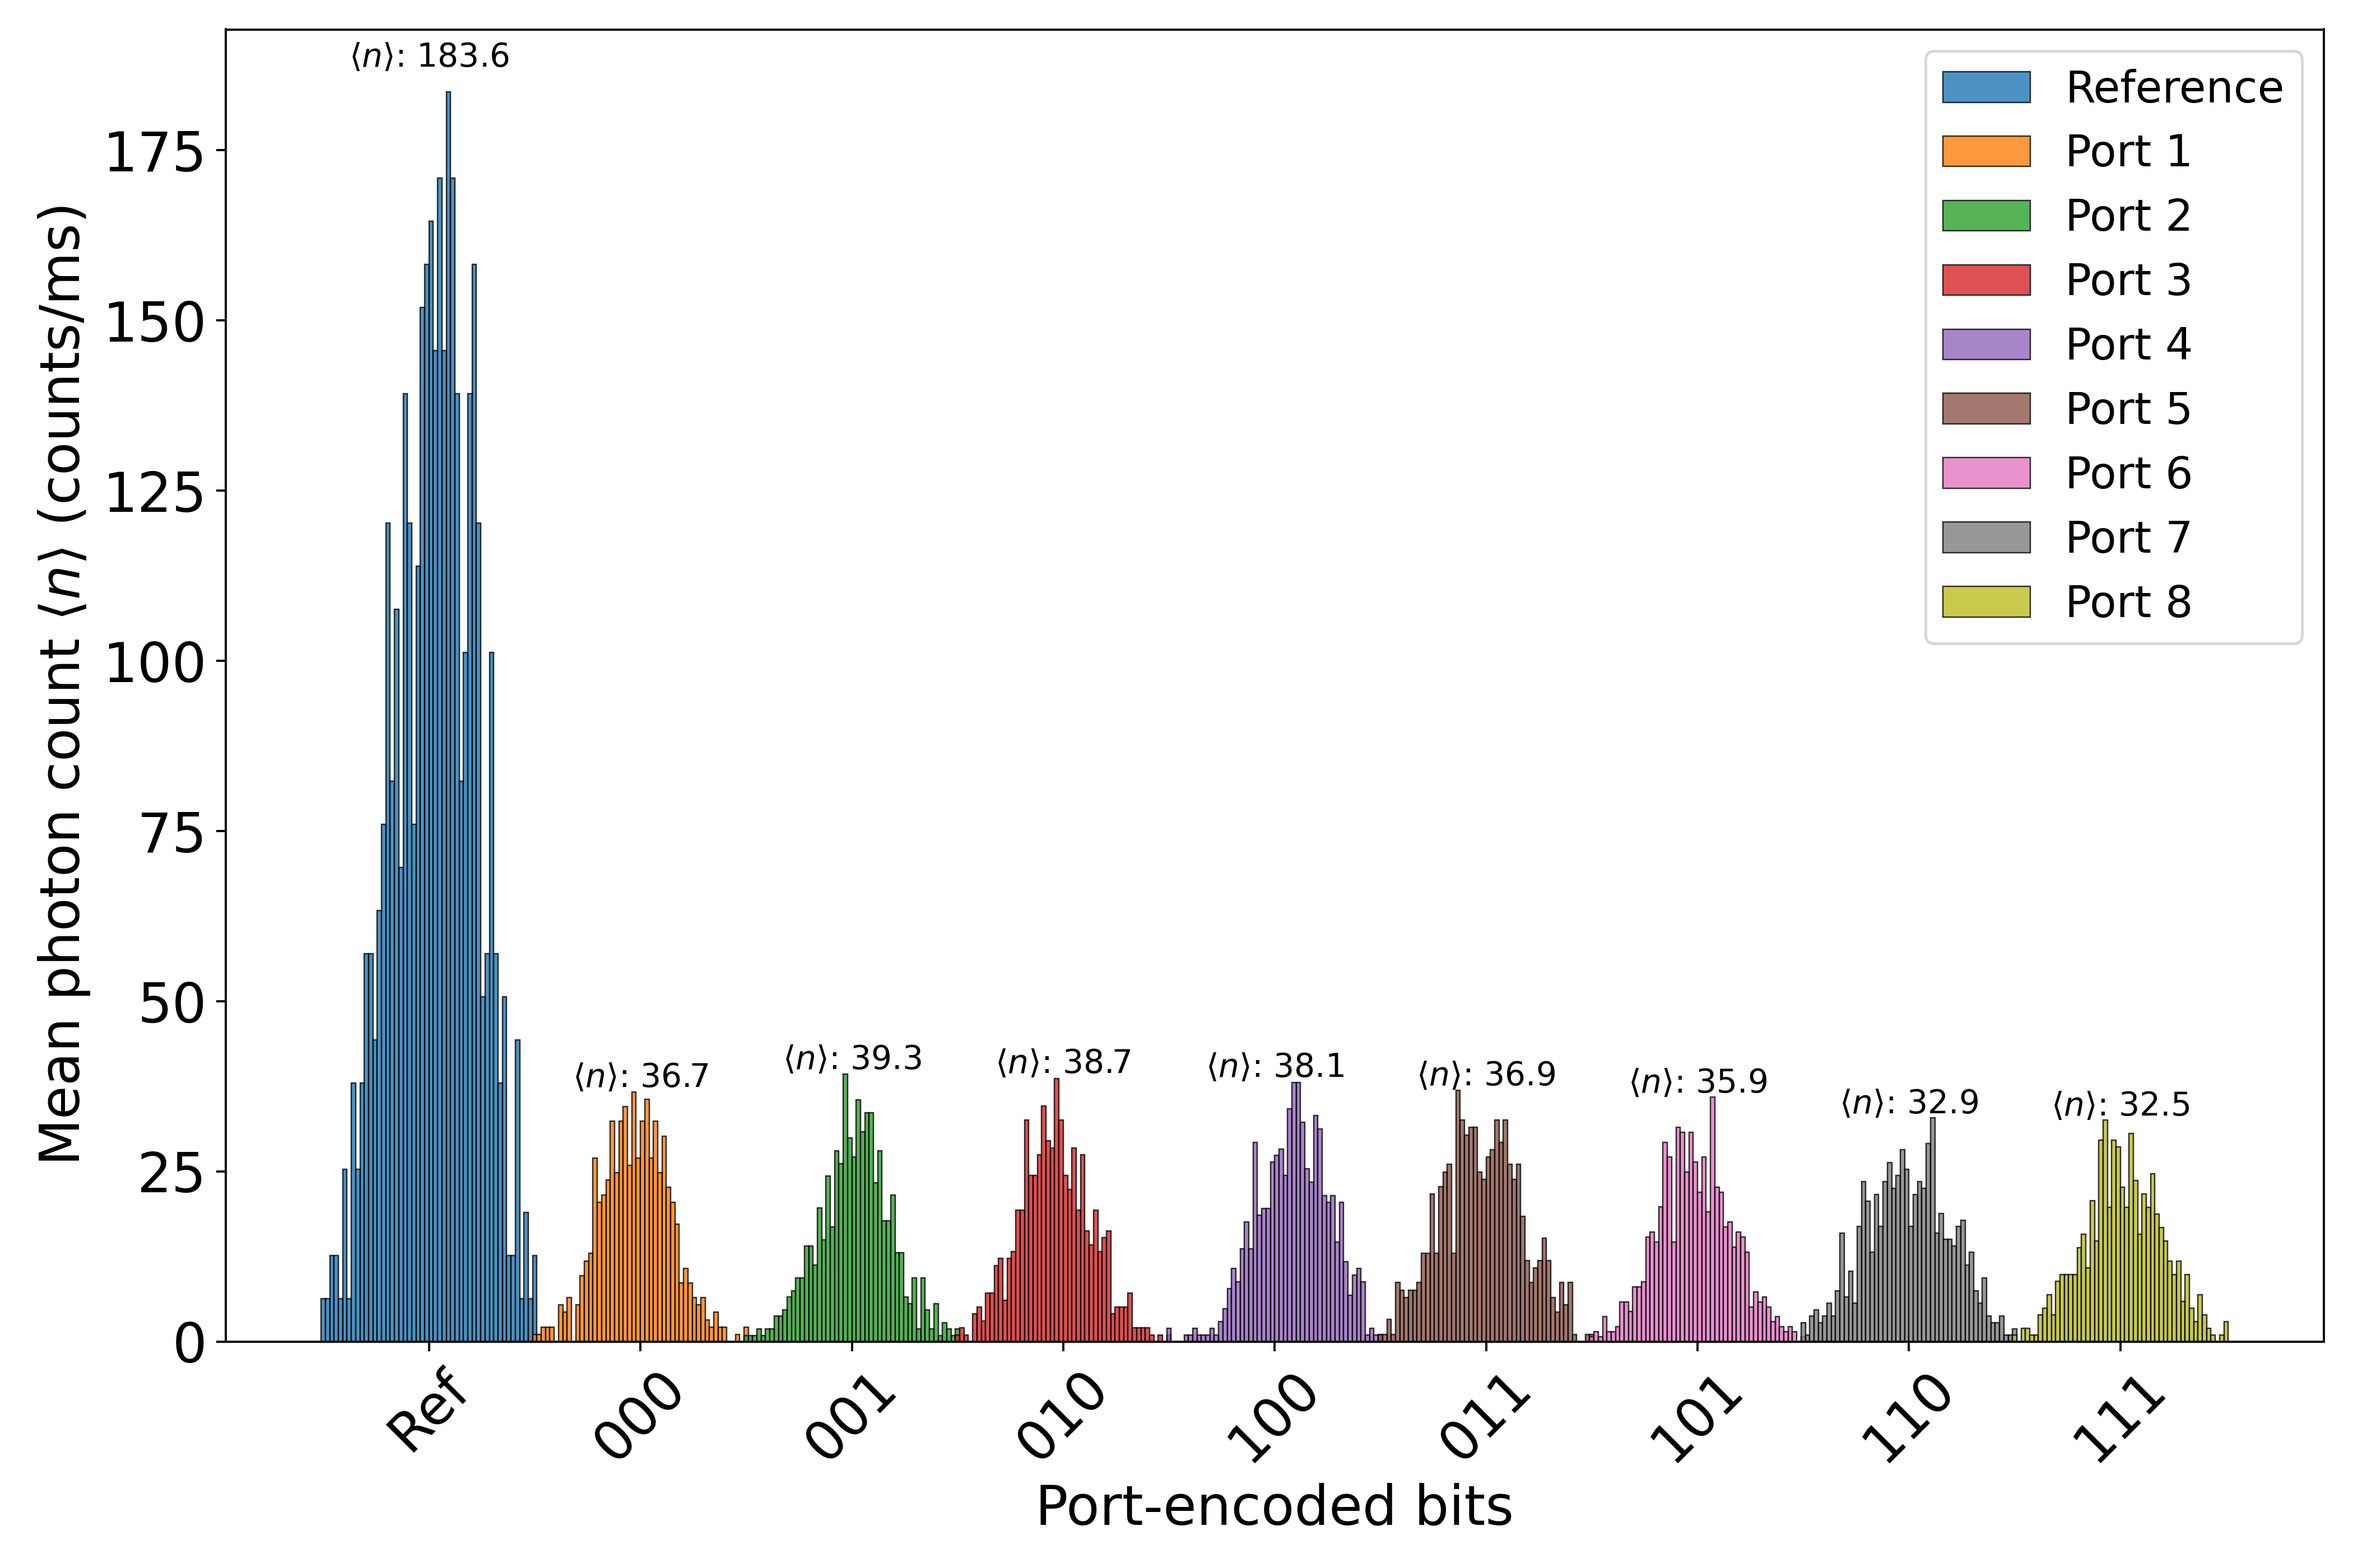
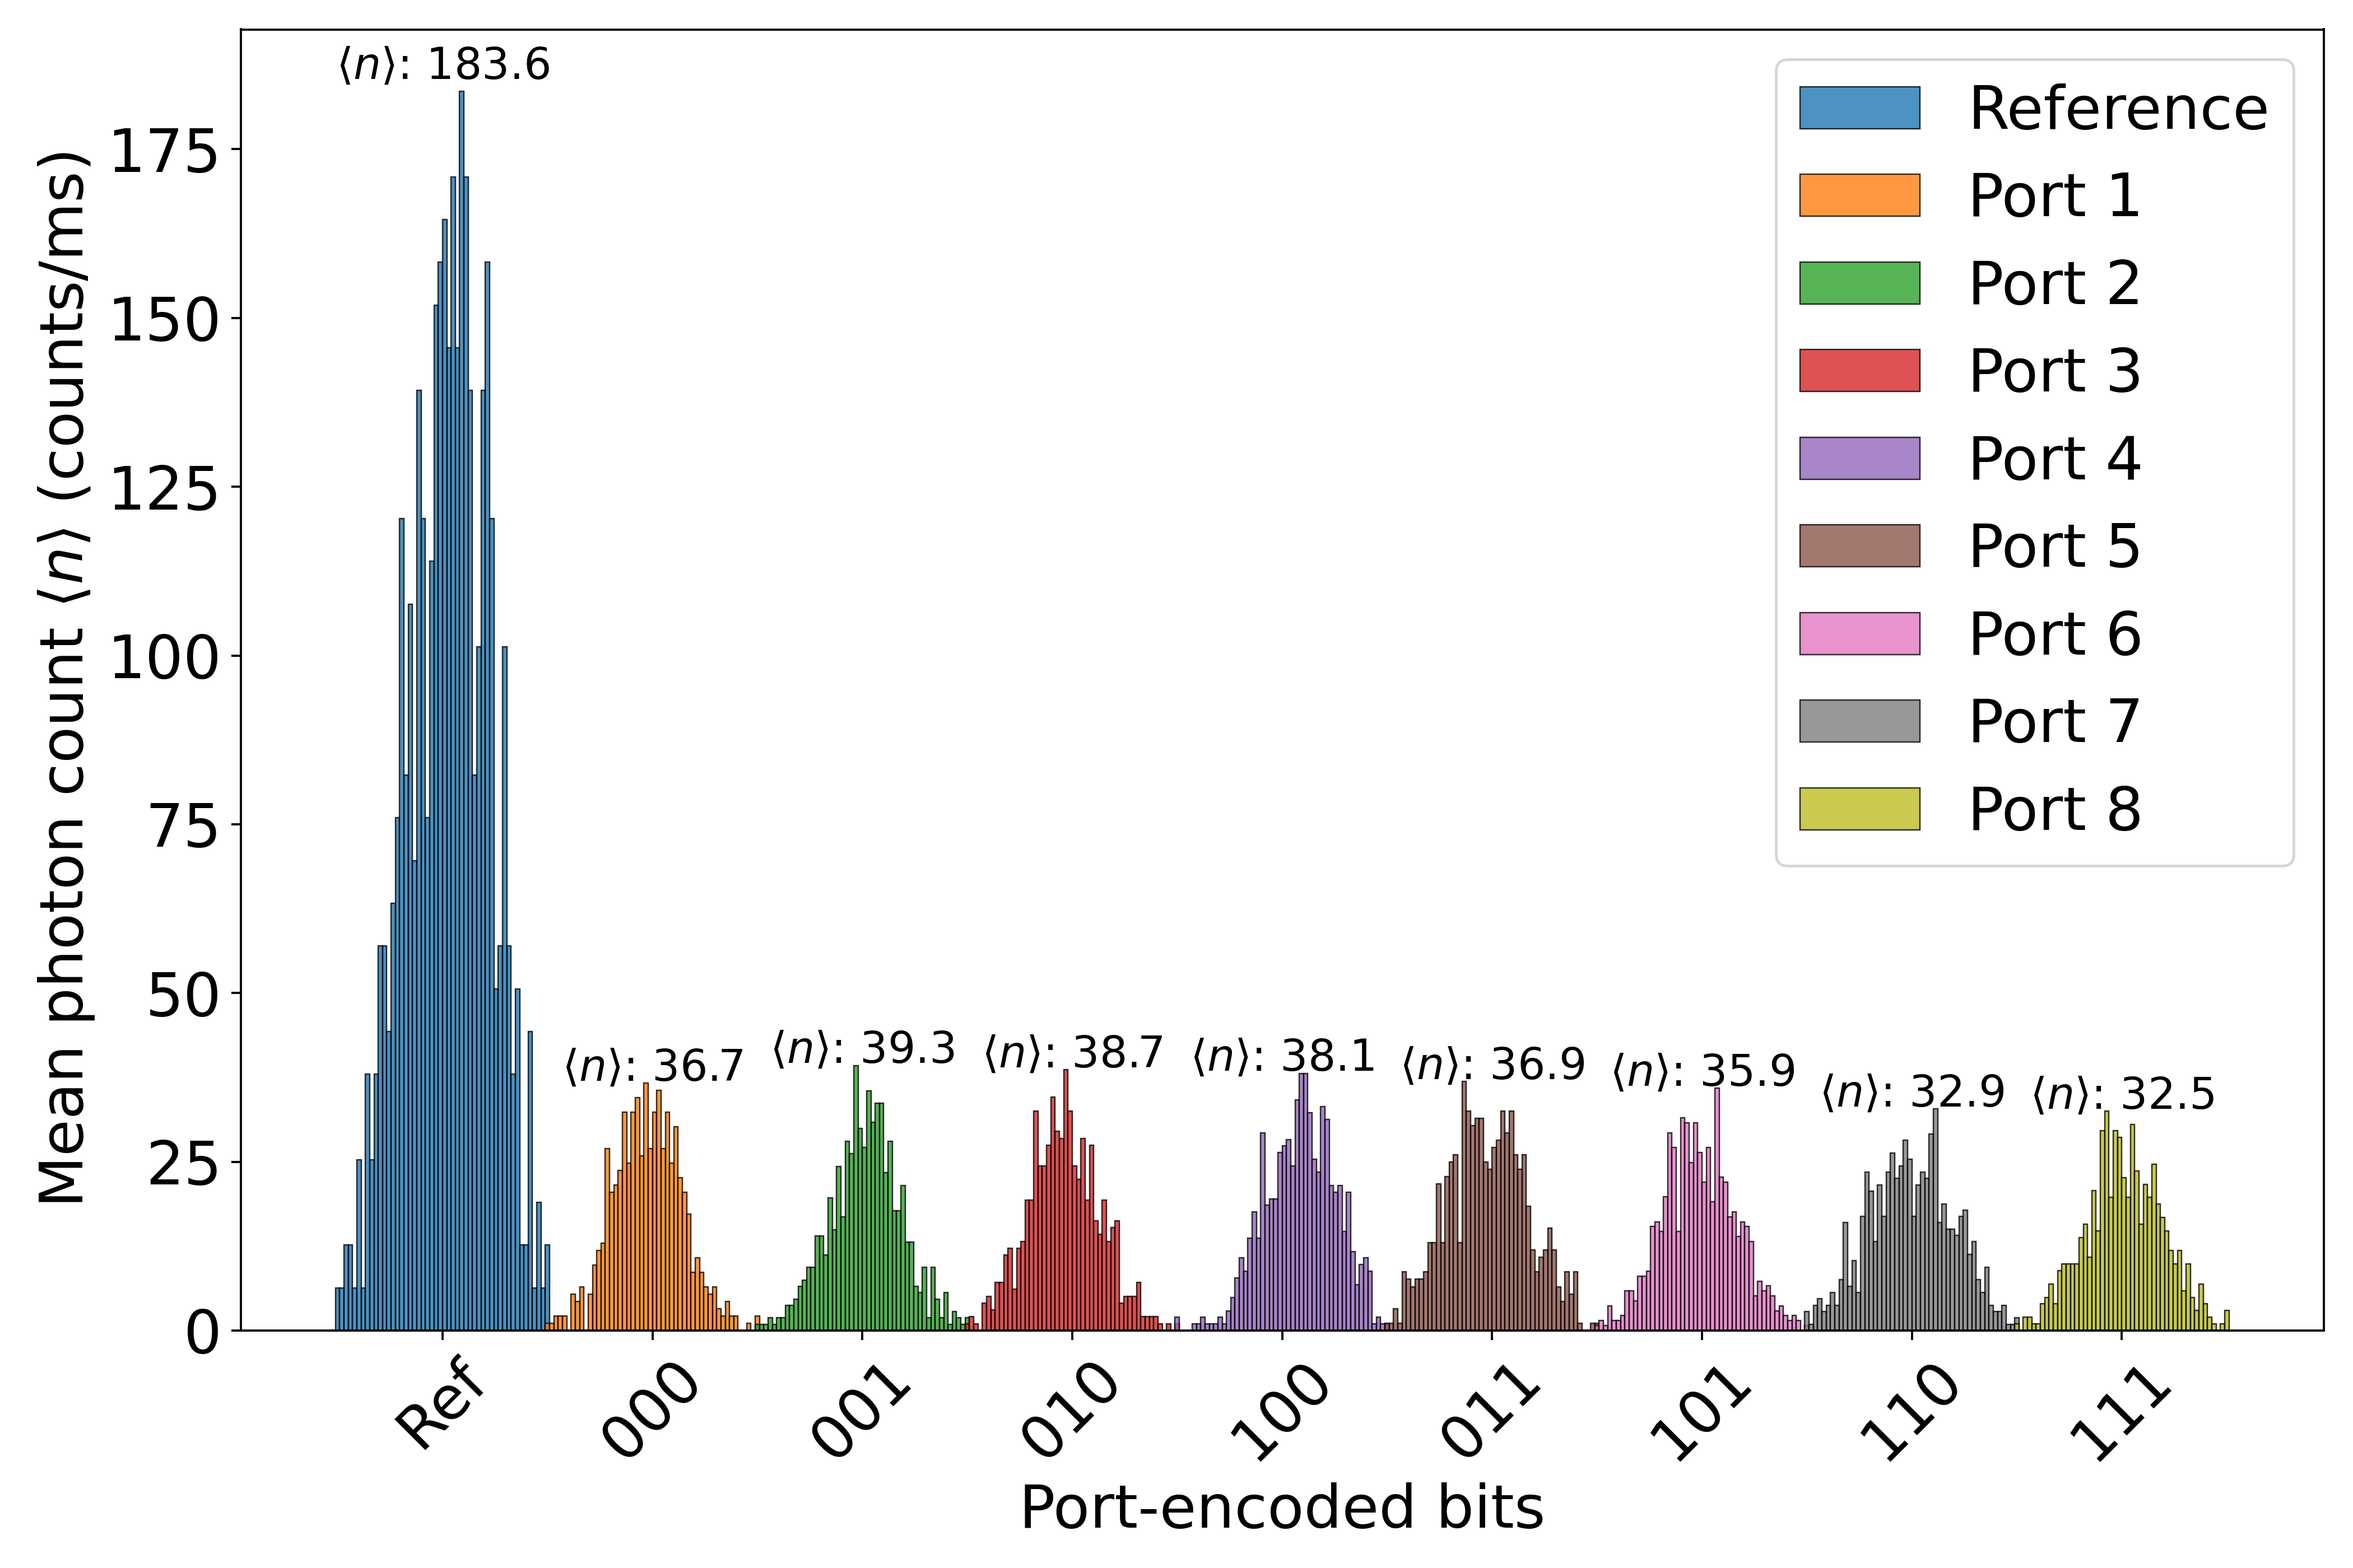
improved plot with multiple histograms

diff --git a/SP-counting_multiple_histograms.py b/SP-counting_multiple_histograms.py
@@ -127,17 +127,17 @@ for i, (data, mean_val, file_label) in enumerate(combined_data):
     
     # Annotate the distribution with its mean photon count (placed at the center of its x slot)
     x_annotation = i * delta_x + 0.5  # adjust as needed
-    y_annotation = np.max(counts_scaled) * 1.02  # a little above the peak
-    plt.text(x_annotation, y_annotation, f"$\\langle n \\rangle$: {mean_val:.1f}", ha='center', fontsize=12)
+    y_annotation = np.max(counts_scaled) * 1.01  # a little above the peak
+    plt.text(x_annotation, y_annotation, f"$\\langle n \\rangle$: {mean_val:.1f}", ha='center', fontsize=16)
 
 random_number_list=['Ref', '000','001','010','100','011','101','110', '111']
-plt.xlabel('Port-encoded bits', fontsize=20)
-plt.ylabel('Mean photon count $\\langle n \\rangle$ (counts/ms)',fontsize=20)
+plt.xlabel('Port-encoded bits', fontsize=22)
+plt.ylabel('Mean photon count $\\langle n \\rangle$ (counts/ms)',fontsize=22)
 #plt.title('Photon count distributions for each star coupler port')
 plt.xticks([i * delta_x + 0.5 for i in range(len(combined_data))],
-           [d for d in random_number_list], rotation=45, fontsize=20)
-plt.yticks(fontsize=20)
-plt.legend(fontsize=16)
+           [d for d in random_number_list], rotation=45, fontsize=22)
+plt.yticks(fontsize=22)
+plt.legend(fontsize=22)
 plt.tight_layout()
 plt.savefig('combined_histograms_proportional_height.png', dpi=350)
 plt.show()
